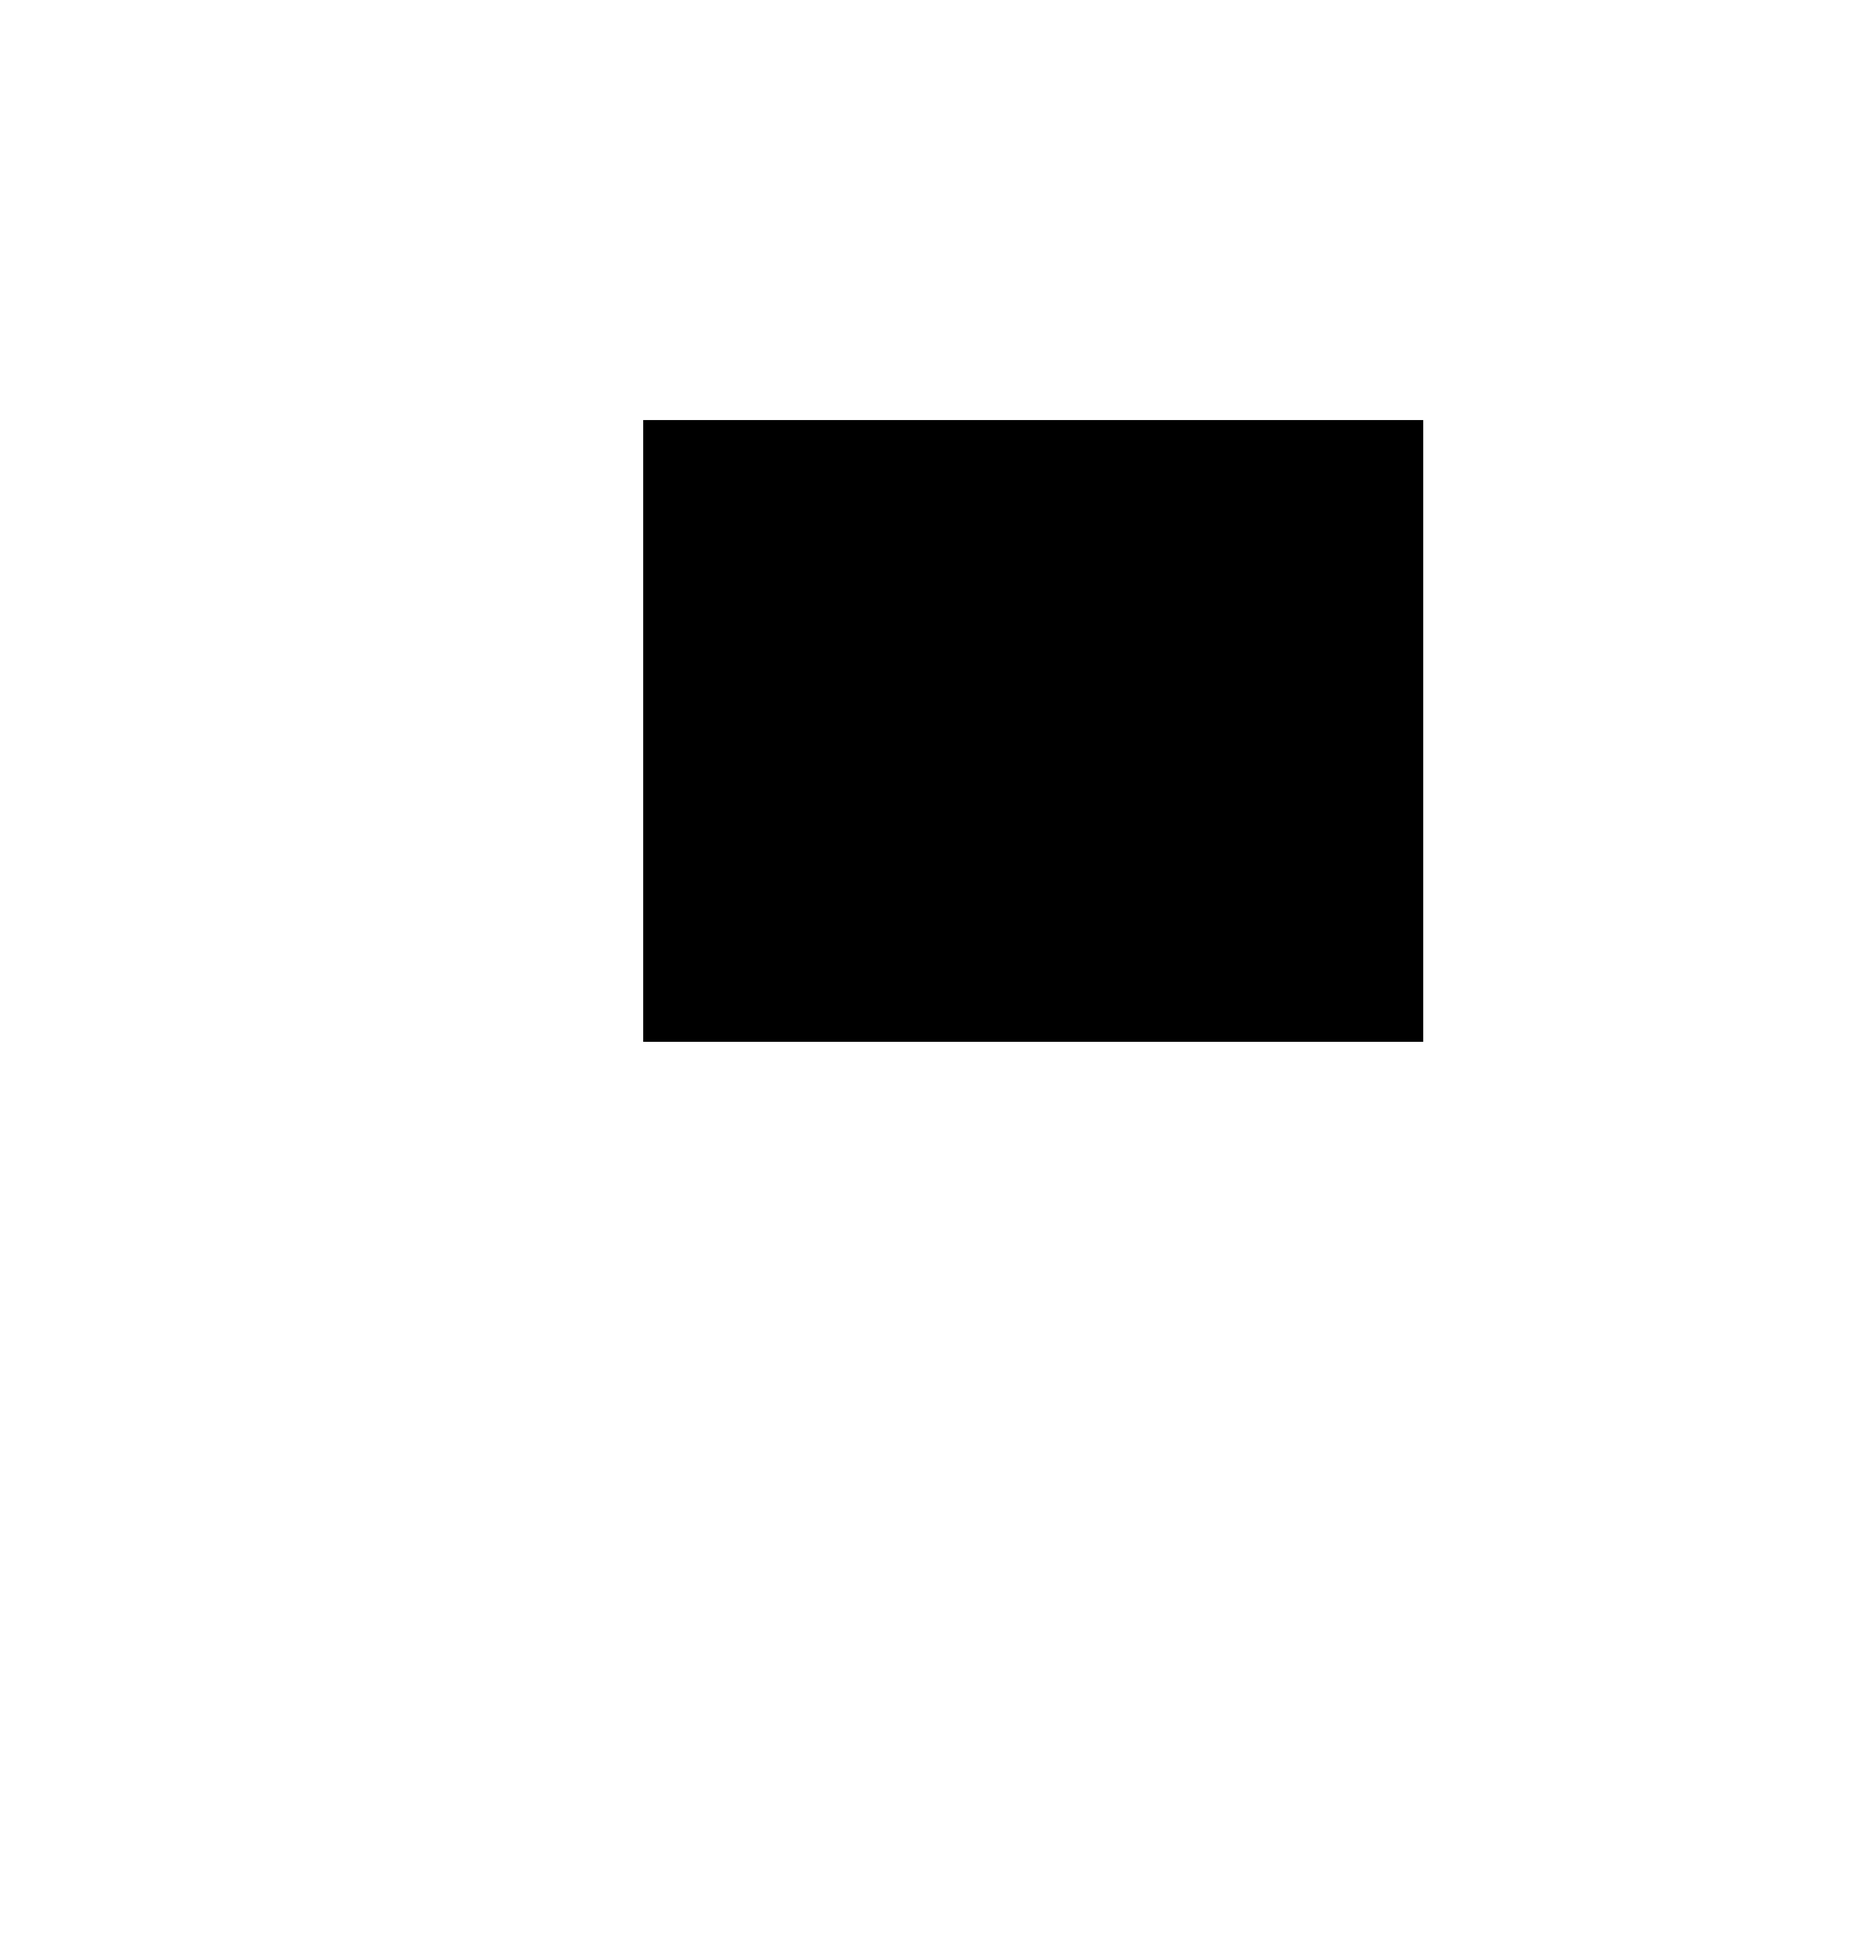
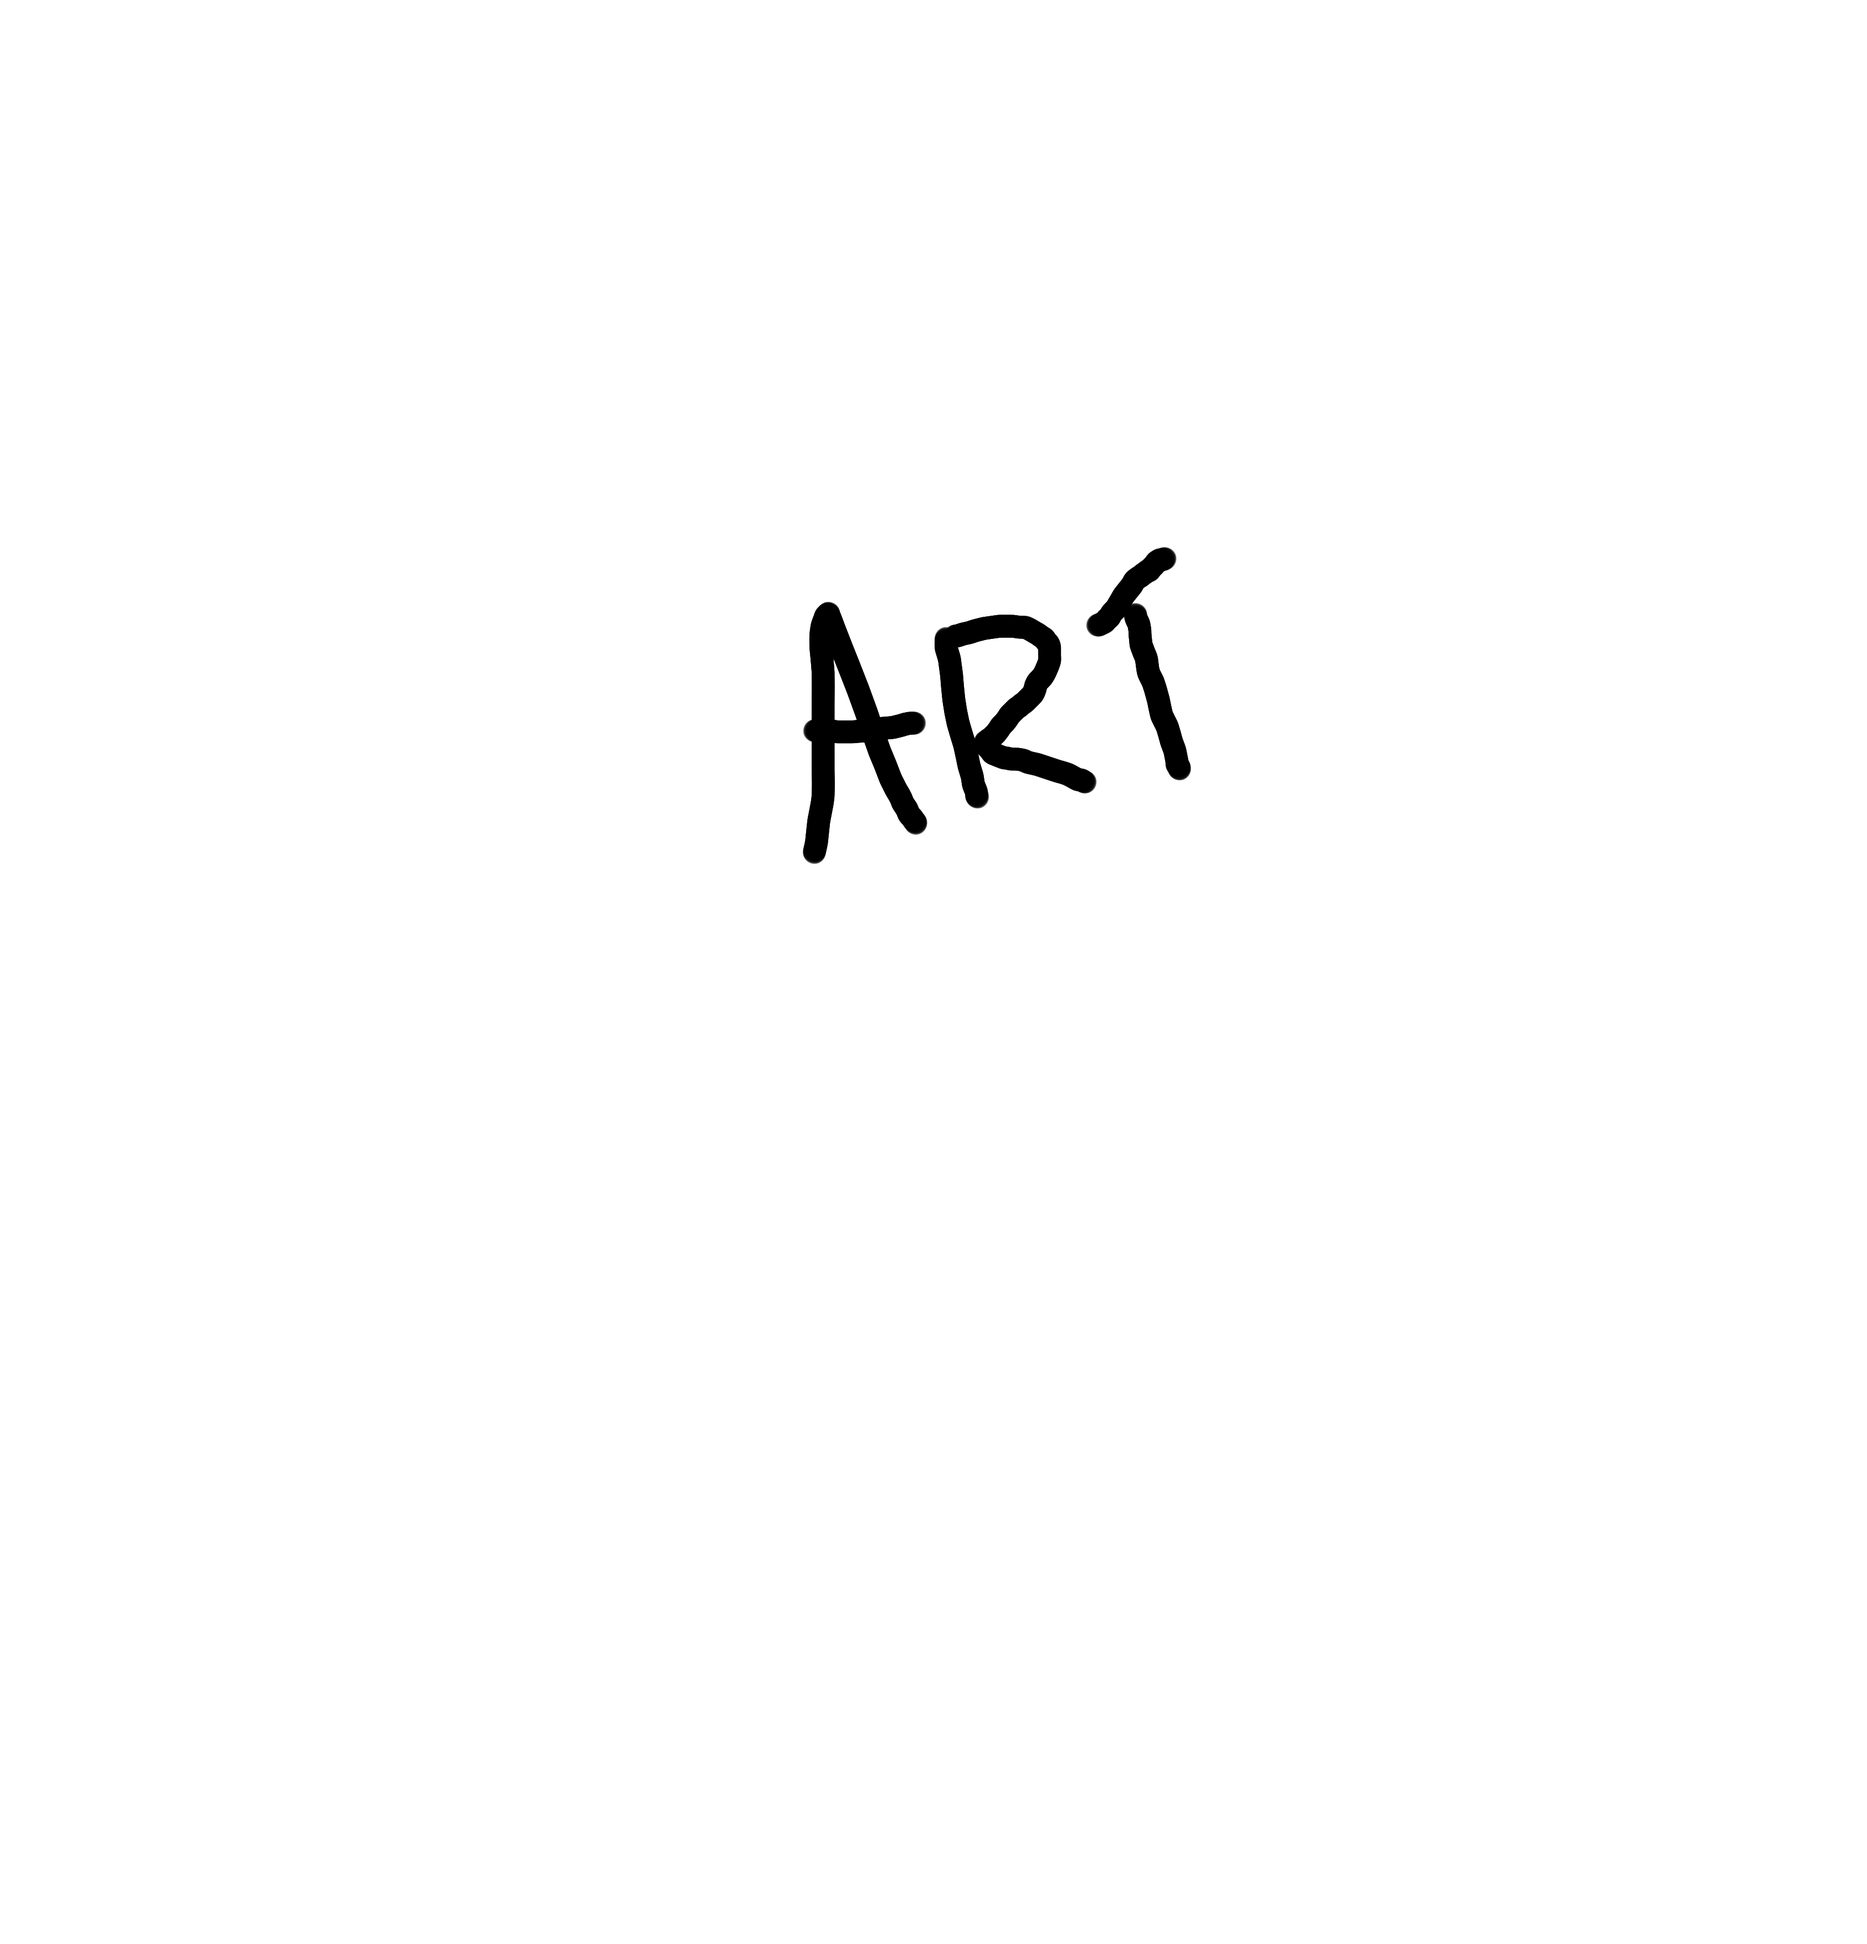
Measure how each asset must be stored instead of declaring it
Asset storage mode was hand-classified per layer, and four were wrong.
layer34 is a white opaque fill behind the black "ART" lettering, not
line art; storing it as a black mask painted a solid block over the
card's art window. layer8 and layer10 are white fills too, and layer30
is entirely empty yet still produced an asset.

classify() now derives the mode from pixel content: all-black visible
pixels become a tintable mask, black plus one saturated colour becomes
a recolourable two-tone asset, anything else is stored flat and never
tinted. Empty layers are skipped.

Renames layer10 to art-window-fill, which is what it actually is.

Claude-Session: https://claude.ai/code/session_01HG4eptJ4ptAhxr7apv5LTU

Changed region(s): [[0.3427, 0.2175, 0.7789, 0.5593]]

diff --git a/tools/harvest.py b/tools/harvest.py
@@ -1,6 +1,8 @@
 #!/usr/bin/env python3
 """Harvest a Krita card template into a modular asset library.
 
+How each asset must be stored is measured from its pixels, not declared.
+
 Every non-text layer becomes a full-canvas transparent PNG. Positions are
 baked into the canvas, so dropping in a replacement PNG needs no coordinates
 and no metadata edit -- the file itself is the configuration.
@@ -26,36 +28,60 @@ from cardforge.recolor import to_hex     # noqa: E402
 # Provisional slot names. Rename the PNGs to rename the options -- the
 # filename stem is the value the card data matches on.
 HARVEST_MAP = {
-    "layer31": ("frames/beta", "frame", "accent"),    # two-tone; accent recoloured at composite time
-    "layer33": ("frames/beta", "parchment", "flat"),  # keep full colour
-    "layer32": ("frames/beta", "edge-runes", "mask"),
-    "layer8":  ("frames/beta", "speck-a", "mask"),
-    "layer10": ("frames/beta", "speck-b", "mask"),
-    "layer30": ("frames/beta", "speck-c", "mask"),
+    "layer31": ("frames/beta", "frame"),    # two-tone; accent recoloured at composite time
+    "layer33": ("frames/beta", "parchment"),  # keep full colour
+    "layer32": ("frames/beta", "edge-runes"),
+    "layer8": ("frames/beta", "speck-a"),
+    "layer10": ("frames/beta", "art-window-fill"),
 
-    "layer16": ("elements", "ice", "mask"),           # confirmed: snowflake
-    "layer15": ("elements", "unnamed-diamond", "mask"),
-    "layer17": ("elements", "unnamed-slashes", "mask"),
-    "layer18": ("elements", "unnamed-star", "mask"),
-    "layer19": ("elements", "unnamed-swirl", "mask"),
-    "layer21": ("elements", "unnamed-flame", "mask"),
-    "layer27": ("elements", "unnamed-smoke", "mask"),
+    "layer16": ("elements", "ice"),           # confirmed: snowflake
+    "layer15": ("elements", "unnamed-diamond"),
+    "layer17": ("elements", "unnamed-slashes"),
+    "layer18": ("elements", "unnamed-star"),
+    "layer19": ("elements", "unnamed-swirl"),
+    "layer21": ("elements", "unnamed-flame"),
+    "layer27": ("elements", "unnamed-smoke"),
 
-    "layer23": ("types", "unnamed-anvil", "mask"),    # visible on this card
-    "layer22": ("types", "unnamed-figures", "mask"),
-    "layer24": ("types", "unnamed-fist", "mask"),
-    "layer25": ("types", "unnamed-swirl", "mask"),
-    "layer28": ("types", "unnamed-eye", "mask"),
+    "layer23": ("types", "unnamed-anvil"),    # visible on this card
+    "layer22": ("types", "unnamed-figures"),
+    "layer24": ("types", "unnamed-fist"),
+    "layer25": ("types", "unnamed-swirl"),
+    "layer28": ("types", "unnamed-eye"),
 
-    "layer20": ("symbols", "aec-multiplier", "mask"),
-    "layer14": ("symbols", "aec-plain", "mask"),
+    "layer20": ("symbols", "aec-multiplier"),
+    "layer14": ("symbols", "aec-plain"),
 
-    "layer26": ("parts", "orb", "flat"),
-    "layer29": ("parts", "stat-plate", "flat"),
-    "layer34": ("parts", "art-placeholder", "mask"),
+    "layer26": ("parts", "orb"),
+    "layer29": ("parts", "stat-plate"),
+    "layer34": ("parts", "art-placeholder"),
 }
 
 NEUTRAL_TOLERANCE = 40      # how far from grey a pixel may be and still be "ink"
+INK_LEVEL = 60              # RGB at or below this counts as a black stroke
+
+
+def classify(img: Image.Image) -> str:
+    """Decide how an asset must be stored, by looking at its pixels.
+
+    mask   - every visible pixel is a black stroke; safe to recolour wholesale
+    accent - black strokes plus one saturated colour (two-tone line art)
+    flat   - anything else (texture, white fill); stored as-is, never tinted
+
+    Guessing this by eye is how a white-filled layer ends up stored as a
+    black mask and paints a solid block over the card.
+    """
+    a = np.asarray(img.convert("RGBA")).astype(np.int16)
+    visible = a[..., 3] > 16
+    if not visible.any():
+        return "empty"
+    rgb = a[..., :3][visible]
+    ink = (rgb.max(axis=1) <= INK_LEVEL).mean()
+    saturated = ((rgb.max(axis=1) - rgb.min(axis=1)) > NEUTRAL_TOLERANCE).mean()
+    if ink > 0.97:
+        return "mask"
+    if saturated > 0.02 and ink + saturated > 0.95:
+        return "accent"
+    return "flat"
 
 
 def dominant_accent(img: Image.Image) -> tuple[int, int, int]:
@@ -95,12 +121,16 @@ def main() -> int:
     }
     palette_hint = None
 
-    for filename, (folder, stem, mode) in HARVEST_MAP.items():
+    for filename, (folder, stem) in HARVEST_MAP.items():
         layer = by_file.get(filename)
         if layer is None:
             print(f"  !! {filename} missing from template", file=sys.stderr)
             continue
         img = doc.render(layer)
+        mode = classify(img)
+        if mode == "empty":
+            print(f"  {filename:>8} -- empty layer, skipped")
+            continue
         target = args.out / folder
         target.mkdir(parents=True, exist_ok=True)
 
